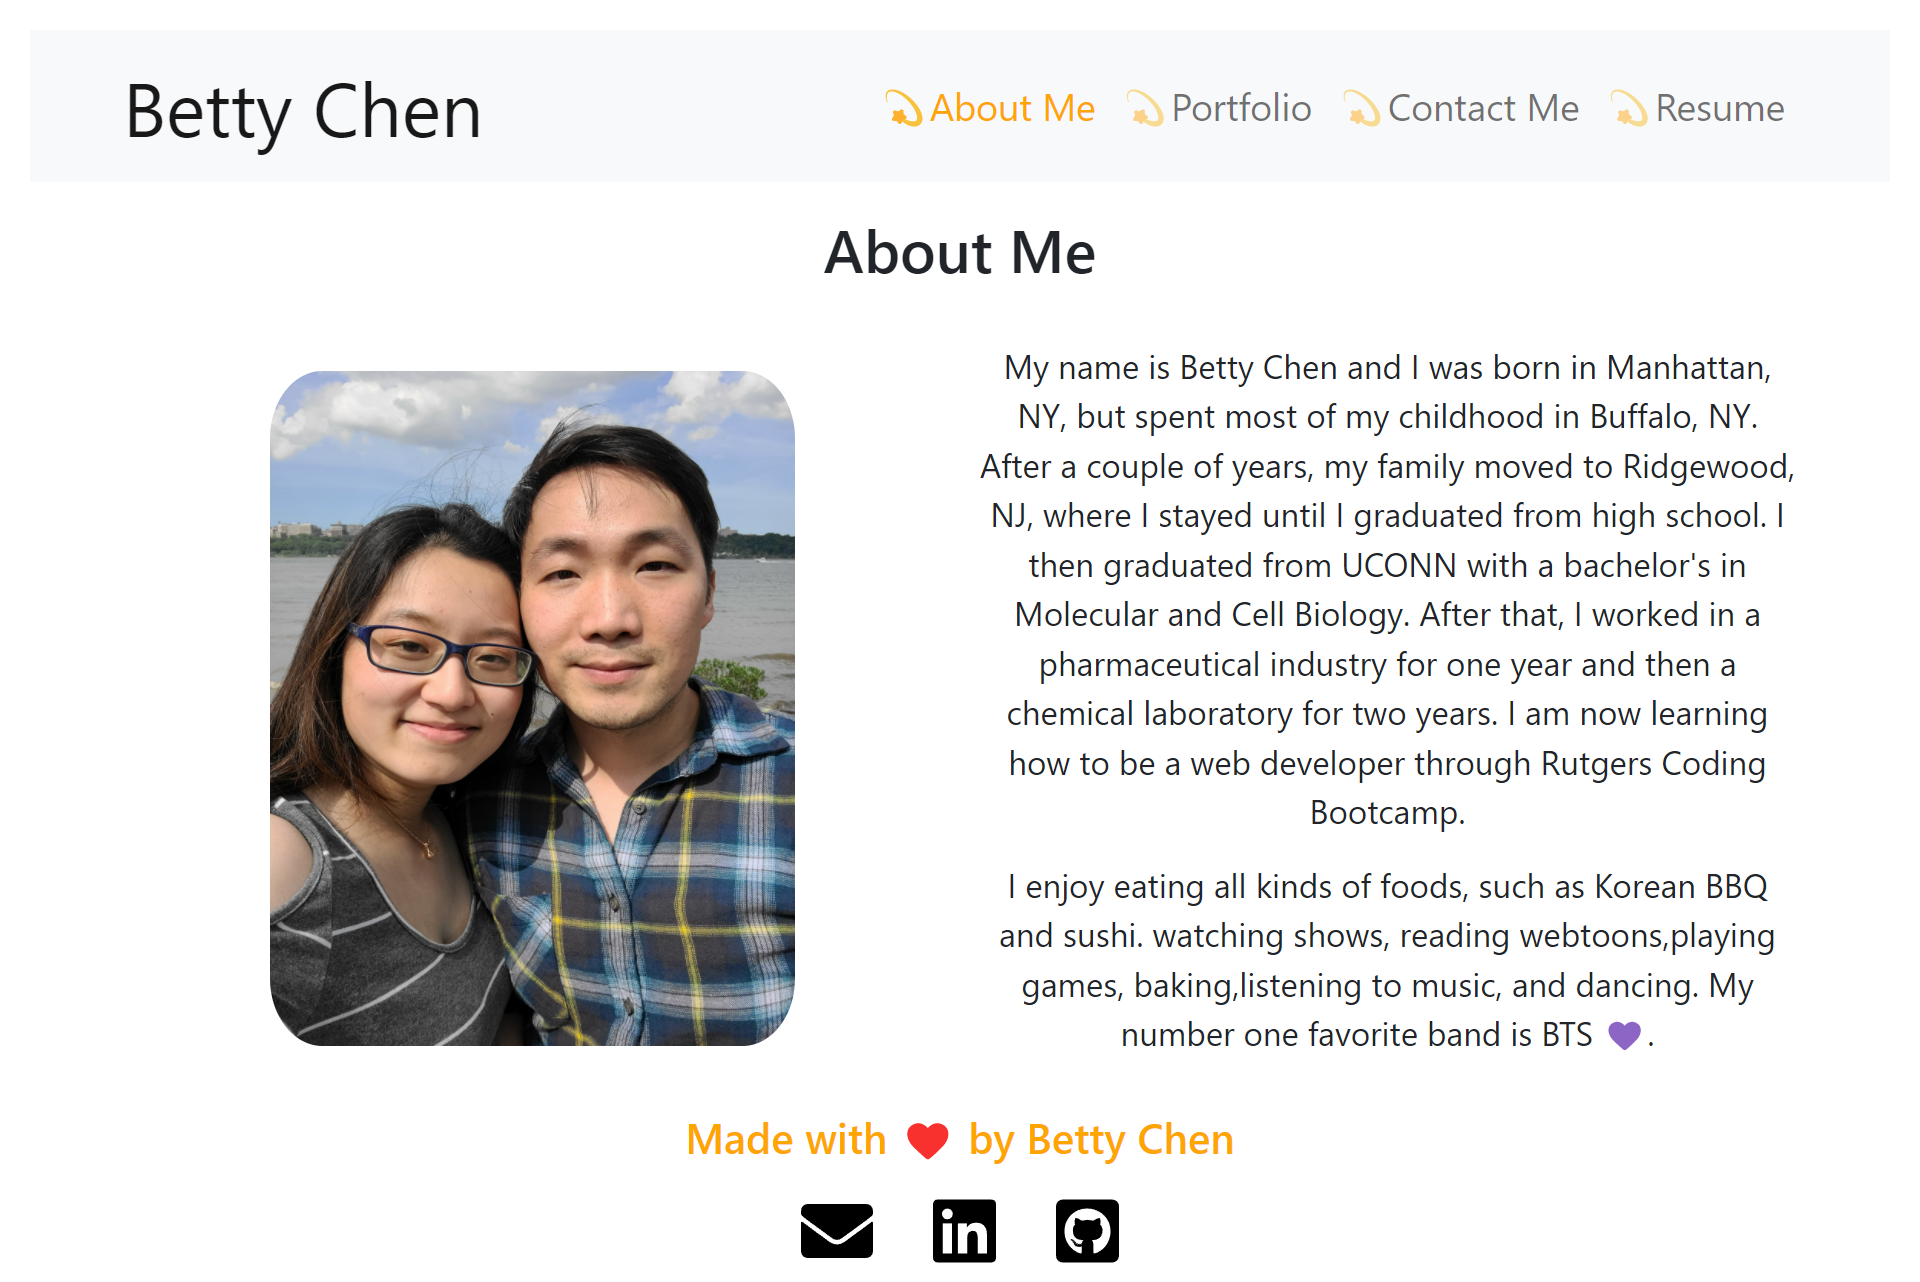
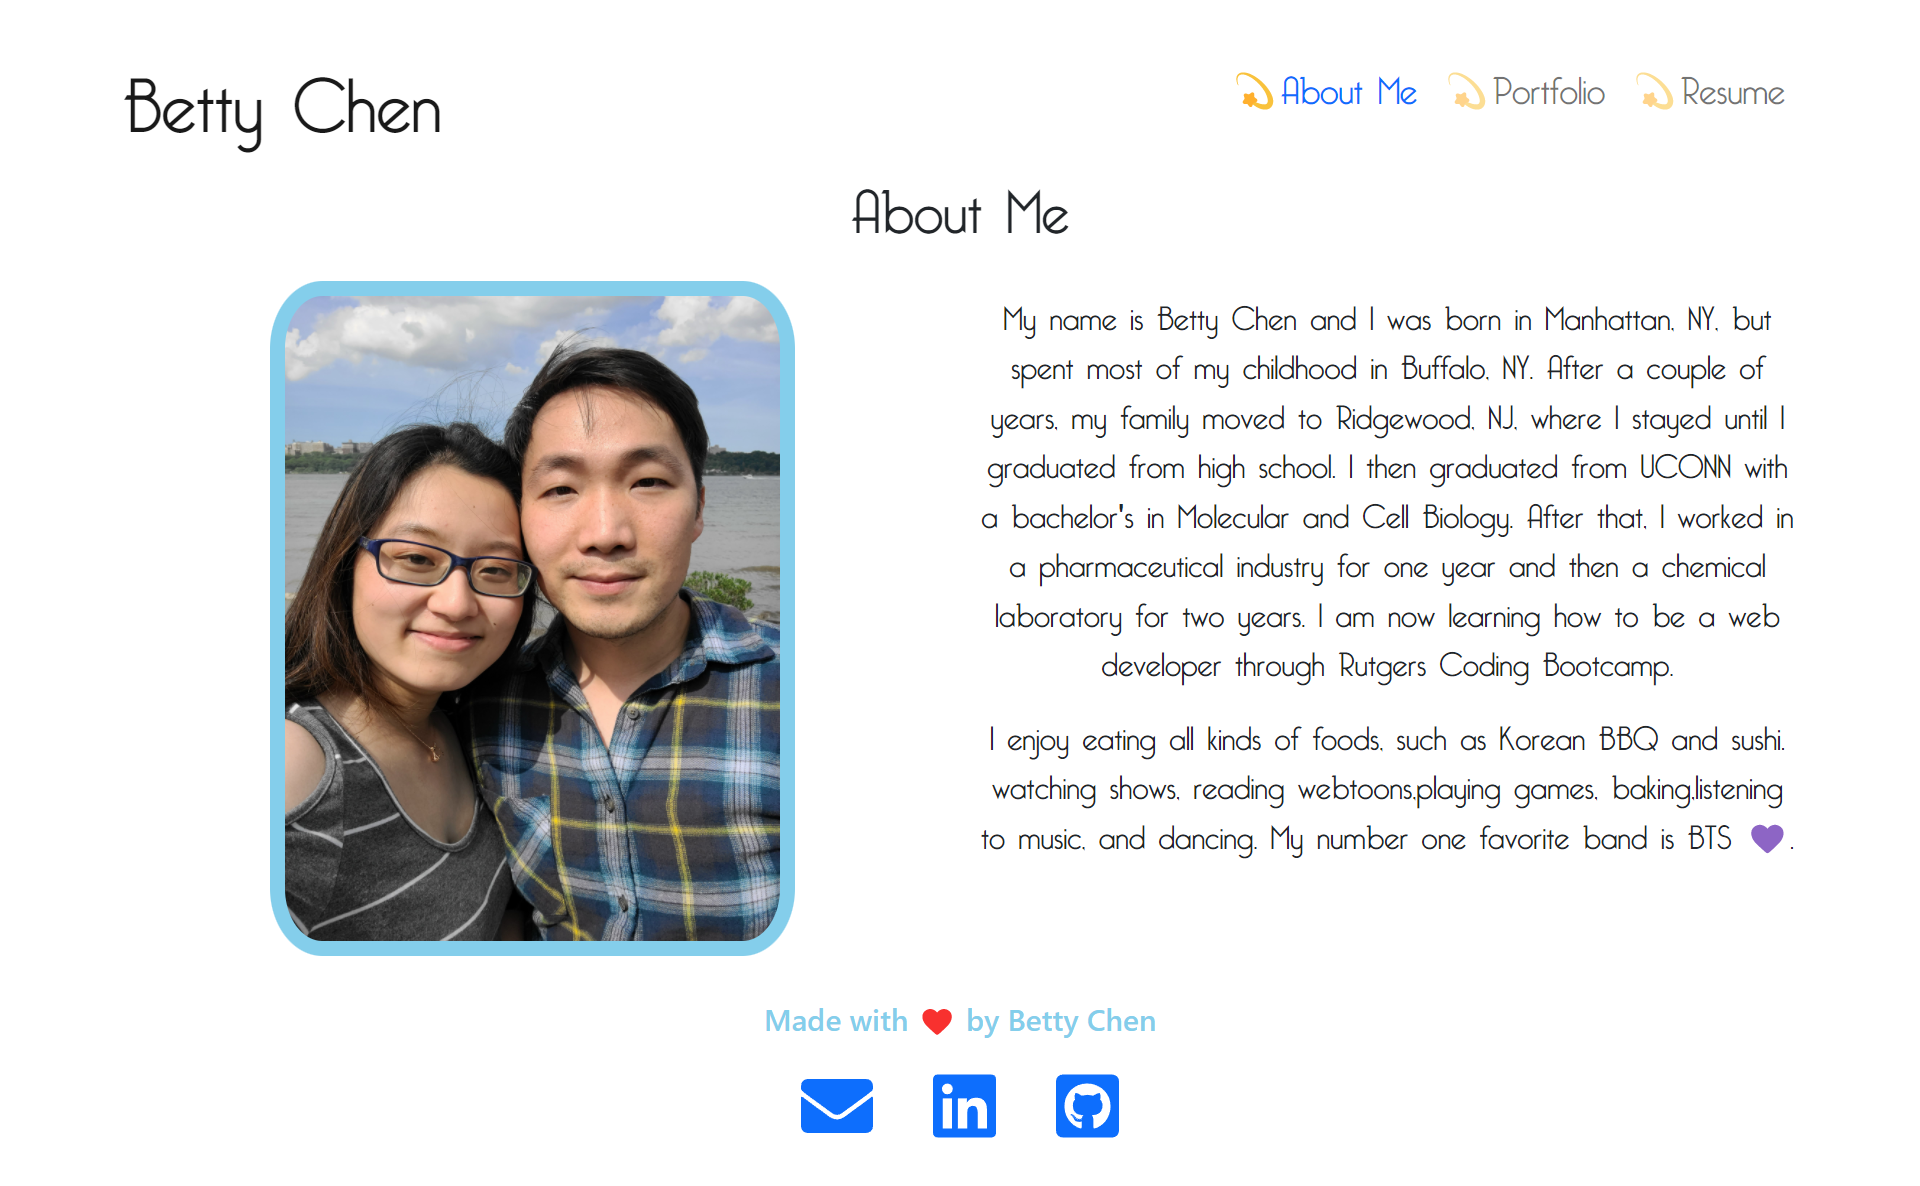
added updated screenshots, edited description

diff --git a/README.md b/README.md
@@ -11,7 +11,7 @@
 
 ## Description
 
-My first React Portfolio deployed on GitHub Pages. This application currently does not include a back-end or connect to an API.
+Created my first React Portfolio using React components. Instead of having a static portfolio, I learned about displaying different pages using components. React makes it so it is possible to re-use code components to increase efficiency when developing apps. Mobile responsiveness and UI was achieved using React Bootstrap.
 
 ## Screenshots
 
